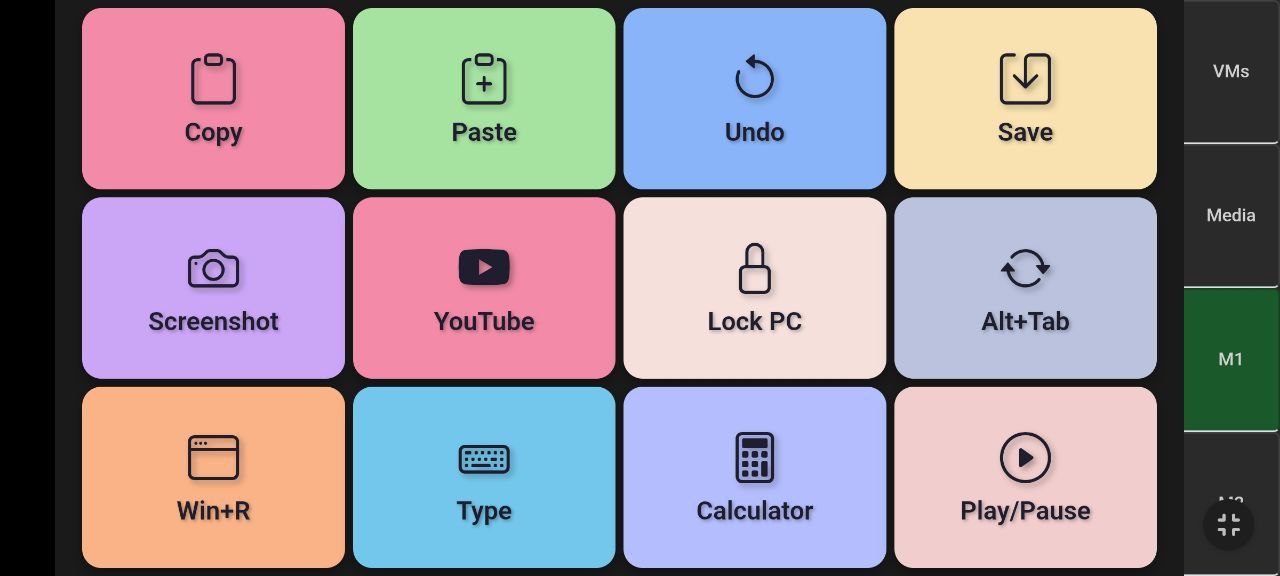
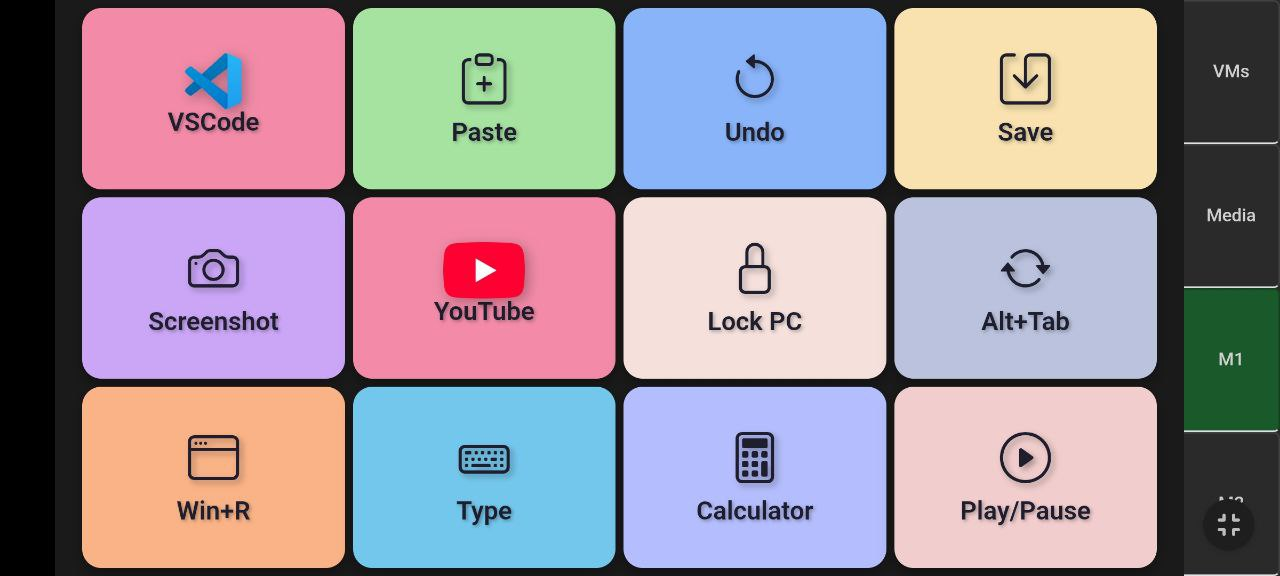
Add installation scripts for Debian and CachyOS, enhance README, and improve macro handler for uinput Linux key emulation

Changed region(s): [[0.3438, 0.4062, 0.4375, 0.5938], [0.125, 0.0938, 0.2188, 0.25]]

diff --git a/macro_handler.py b/macro_handler.py
@@ -17,6 +17,7 @@ import socket
 import subprocess
 import threading
 import time
+import os
 
 # Optional dependencies with graceful fallbacks
 try:
@@ -29,15 +30,29 @@ except ImportError:
     Key = None
     KeyCode = None
 
-# Linux-specific uinput for Super key combinations
 UINPUT_AVAILABLE = False
 uinput = None
-if platform.system().lower() == 'linux':
+system = platform.system().lower()
+if system == 'linux':
     try:
         import uinput
         UINPUT_AVAILABLE = True
     except ImportError:
         pass
+
+if system == 'linux':
+    if UINPUT_AVAILABLE and os.path.exists('/dev/uinput') and os.access('/dev/uinput', os.W_OK):
+        print("[ProxPad] Using uinput for Linux key emulation (supports Super/Win combos)")
+    else:
+        print("[ProxPad] uinput not available or not accessible. Using pynput. WARNING: On Linux, special key combos (Win/Super) may not work without uinput.")
+        if not PYNPUT_AVAILABLE:
+            print("[ProxPad] ERROR: pynput not available. Please install pynput.")
+elif system == 'windows':
+    print("[ProxPad] Using pynput for Windows key emulation.")
+    if not PYNPUT_AVAILABLE:
+        print("[ProxPad] ERROR: pynput not available. Please install pynput.")
+else:
+    print(f"[ProxPad] Unknown OS: {system}. Key emulation may not work.")
 
 class MacroHandler:
     """Cross-platform macro handler for UDP broadcast commands."""

diff --git a/README.md b/README.md
@@ -4,25 +4,20 @@ ProxPad is a web-based interface for managing Proxmox virtual machines with a fo
 
 ## Screenshots
 
-### Portrait Mode (Mobile)
+**Portrait Mode (Mobile)**
 ![VM Page](images/landscape1.jpg)
-
 ![Macro Page](images/landscape2.jpg)
-
 ![Media Page](images/landscape3.jpg)
 
-
 ## Features
-
-- **Mobile-Optimized Interface**: Responsive grid layout that adapts to different screen sizes and orientations
-- **Resource Conflict Management**: Automatically hides VMs that share the same resources (like GPUs) when another VM in the group is running
-- **Real-time Status Updates**: Live monitoring of VM status, CPU usage, and RAM consumption
-- **Quick Actions**: Start, stop, restart, shutdown, and reboot VMs with a single tap
-- **Confirmation Dialogs**: Optional confirmation prompts before executing VM actions
-- **Auto-refresh**: Page automatically updates when VM visibility changes due to resource sharing
+- **Mobile-Optimized Interface**: Responsive grid layout adapts to all screens
+- **Resource Conflict Management**: Hides VMs that share resources when another in the group is running
+- **Real-time Status Updates**: Live VM status, CPU, RAM
+- **Quick Actions**: Start, stop, restart, shutdown, reboot VMs
+- **Confirmation Dialogs**: Optional before executing VM actions
+- **Auto-refresh**: Page updates when VM visibility changes
 
 ## Prerequisites
-
 - Proxmox VE server
 - Python 3.6+
 - Flask
@@ -30,159 +25,151 @@ ProxPad is a web-based interface for managing Proxmox virtual machines with a fo
 
 ## Installation
 
-1. **Clone or download the project files**:
-   ```bash
+1. **Clone the project:**
+   ```sh
    git clone https://github.com/Yury-MonZon/ProxPad.git
    cd ProxPad
    ```
 
-2. **Install dependencies**:
-   ```bash
-   pip3 install flask proxmoxer
-   ```
+2. **Install dependencies:**
+   - On Arch/CachyOS: `./install_debs_cachyos.sh`
+   - On Debian/Ubuntu: `./install_deps_debian.sh`
 
-3. **Configure Proxmox API Token**:
-   - Log into your Proxmox web interface
+3. **Configure Proxmox API Token:**
+   - Log into Proxmox web interface
    - Go to **Datacenter → Permissions → API Tokens**
    - Create a new token (e.g., user: `root@pam`, token ID: `ProxPad`)
-   - **Important**: Disable "Privilege Separation" for the token
+   - **Disable "Privilege Separation" for the token**
 
-4. **Configure ProxPad**:
-   Edit `config.py` with your settings:
+4. **Configure ProxPad:**
+   Edit `config.py`:
    ```python
    PROXMOX_HOST = "your.proxmox.server.ip"
    PROXMOX_USER = "root@pam"
    PROXMOX_TOKEN_ID = "ProxPad"
    PROXMOX_TOKEN_SECRET = "your-token-secret"
-   VERIFY_SSL = False  # Set to True if using valid SSL certificates
-   
-   # List of VM IDs you want to manage
+   VERIFY_SSL = False
    VM_IDS = [101, 102, 103, 104]
-   
-   # Resource sharing groups (see below for details)
-   SAME_RESOURCES = [
-       [101, 102],  # These VMs share resources
-       [103, 104]   # Add more groups as needed
-   ]
-   
-   # Show confirmation dialogs
+   SAME_RESOURCES = [ [101, 102], [103, 104] ]
    SHY = True
+   ......
    ```
+
+## Linux Keyboard Emulation: Why Use uinput?
+
+On modern Linux distributions, direct keyboard emulation for macros and media keys is best achieved using the kernel's `uinput` device. This avoids the security restrictions and reliability issues of the xdg-desktop-portal API, which is designed for sandboxed apps and may block or restrict special key combos (like Super/Win+L) for security reasons.
+
+**Why uinput?**
+- Works reliably for all key combos, including Super/Win keys
+- No need for user confirmation dialogs every time
+- Avoids sandbox and security limitations of portals
+- Can be set up for non-root usage with proper permissions
+
+**How to install and set up uinput:**
+1. Run the provided install script **inside your Linux VM(not needed for Windows VM)**:
+   ```sh
+   ./install_uinput.sh
+   ```
+   This will:
+   - Load the uinput kernel module at boot
+   - Set correct group and permissions for `/dev/uinput`
+   - Add your user to the `input` group
+   - Reload udev rules
+
+2. Reboot or log out/in for group changes to take effect.
+
+After setup, ProxPad will use uinput for keyboard emulation on Linux, allowing secure, reliable macro execution without root or portal limitations.
+
+For more details, see the comments in `install_uinput.sh` and the macro handler source code.
 
 ## Configuration Options
 
 ### VM_IDS
-List of Proxmox VM IDs that you want to manage through ProxPad.
+List of Proxmox VM IDs to manage.
 
 ### SAME_RESOURCES
-This is the key feature for preventing resource conflicts. Define groups of VMs that share the same physical resources (like GPUs, special hardware, etc.).
+Define groups of VMs that share physical resources (GPUs, etc.).
+- When any VM in a group is **running**, all others in that group are **hidden**
+- When the running VM **stops**, others become **visible**
 
-**How it works**:
-- When any VM in a group is **running**, all other VMs in that group are **hidden** from the interface
-- When the running VM **stops**, the other VMs in the group become **visible** again
-- This prevents accidentally starting multiple VMs that would conflict over the same hardware
-
-**Example configurations**:
+**Example:**
 ```python
-# Example 1: Two separate GPU groups
 SAME_RESOURCES = [
     [101, 102, 103],  # VMs sharing GPU #1
     [104, 105]        # VMs sharing GPU #2
 ]
-
-# Example 2: One large GPU group
-SAME_RESOURCES = [
-    [101, 102, 103],  # All VMs share the same GPU
-    []
-]
-
-# Example 3: No resource sharing
-SAME_RESOURCES = [
-    []  # No resource conflicts
-]
 ```
 
 ### SHY
-When set to `True`, shows confirmation dialogs before executing VM actions. Set to `False` for immediate actions.
+Set to `True` to show confirmation dialogs before VM actions.
 
 ## Running ProxPad
 
-1. **Start the server**:
-   ```bash
-   python3 proxpad.py
+1. **Start the server:**
+   ```sh
+   python proxpad.py
    ```
-
-2. **Access the interface**:
+2. **Access the interface:**
    - Open your browser to `http://your-server-ip:5000`
-   - For mobile use, you can bookmark or "Add to Home Screen"
-
-3. **Background operation** (optional):
-   ```bash
-   # Run in background
-   nohup python3 proxpad.py &
-   
-   # Or use the provided script
+   - For mobile, bookmark or "Add to Home Screen"
+3. **Background operation:**
+   ```sh
+   nohup python proxpad.py &
    ./run_me.sh &
    ```
 
 ## Usage
 
 ### Desktop/Tablet
-- VMs are displayed in a responsive grid
-- Landscape mode optimizes for more VMs horizontally
-- Portrait mode stacks VMs vertically
+- Responsive grid for VMs
+- Landscape: more VMs horizontally
+- Portrait: VMs stacked vertically
 
 ### Mobile Phones
-- Optimized button layouts for touch interaction
-- Landscape mode uses compact button arrangements
-- All actions accessible with thumb-friendly sizing
+- Optimized button layouts for touch
+- Compact landscape mode
+- Thumb-friendly sizing
 
 ### VM States
-- **Green Start button**: VM is stopped and can be started
-- **Red Stop/Reset buttons**: VM is running with available actions
-- **Blue Reboot button**: Graceful restart option
-- **Gray Shutdown button**: Graceful shutdown option
+- **Green Start**: VM stopped
+- **Red Stop/Reset**: VM running
+- **Blue Reboot**: Graceful restart
+- **Gray Shutdown**: Graceful shutdown
 
 ### Resource Management
-- When VM 100 starts → VMs 101 and 102 automatically hide (based on example config 2)
-- When VM 100 stops → VMs 101 and 102 automatically reappear
-- Page refreshes automatically when VM visibility changes
+- When VM 100 starts → VMs 101/102 hide (per config)
+- When VM 100 stops → VMs 101/102 reappear
+- Page auto-refreshes on visibility change
+
+## Macro Handler: Running macro_handler.py in VMs
+
+To process media keys, macro buttons, and program execution, you must run `macro_handler.py` inside each Windows or Linux VM you want to control. This script listens for UDP broadcast commands from ProxPad and executes the requested actions locally in the VM.
+
+- On Windows: Run `python macro_handler.py` (requires Python and pynput)
+- On Linux: Run `python macro_handler.py` (requires Python, pynput, and uinput for full key support)
+
+**Note:**
+- The macro handler must be running in the background in each VM for ProxPad's media and macro buttons to work.
+- On Linux, ensure uinput is set up for full key emulation (see above).
+- You can set up the macro handler to start automatically on VM boot for seamless integration.
 
 ## Troubleshooting
 
 ### Connection Issues
-1. **Check Proxmox API token**: Ensure token exists and "Privilege Separation" is disabled
-2. **Verify permissions**: Token needs `VM.Audit` and `VM.PowerMgmt` permissions
-3. **Network connectivity**: Ensure ProxPad server can reach Proxmox host
-4. **SSL verification**: Set `VERIFY_SSL = False` if using self-signed certificates
+- Check Proxmox API token (disable Privilege Separation)
+- Token needs `VM.Audit` and `VM.PowerMgmt` permissions
+- Ensure network connectivity
+- Set `VERIFY_SSL = False` for self-signed certs
 
 ### VM Not Appearing
-1. **Check VM_IDS**: Ensure VM ID is listed in config
-2. **Check permissions**: Token must have access to specific VMs
-3. **Check SAME_RESOURCES**: VM might be hidden due to resource sharing
+- Check `VM_IDS` in config
+- Check token permissions
+- VM may be hidden due to `SAME_RESOURCES`
 
 ### Page Not Updating
-1. **Check browser console**: Look for JavaScript errors
-2. **Verify network**: Ensure `/vm_status` endpoint is accessible
-3. **Refresh manually**: Browser cache might need clearing
-
-## Security Notes
-
-- ProxPad runs on HTTP by default (port 5000)
-- For production use, consider running behind a reverse proxy with HTTPS
-- API token should have minimal required permissions
-- Consider firewall rules to restrict access to the web interface
-
-## File Structure
-
-```
-ProxPad/
-├── proxpad.py          # Main Flask application
-├── config.py           # Configuration file
-├── requirements.txt    # Python dependencies
-├── run_me.sh          # Startup script
-└── README.md          # This file
-```
+- Ensure server is running
+- Check browser cache
+- Reload page
 
 ## License
 
@@ -196,4 +183,5 @@ Feel free to submit issues, feature requests, or pull requests to improve ProxPa
 [![Donate](https://storage.ko-fi.com/cdn/fullLogoKofi.png)](https://ko-fi.com/yurymonzon)
 
 If you found this project useful, consider supporting my work with a small donation: https://ko-fi.com/yurymonzon Your support is greatly appreciated!
+
 
